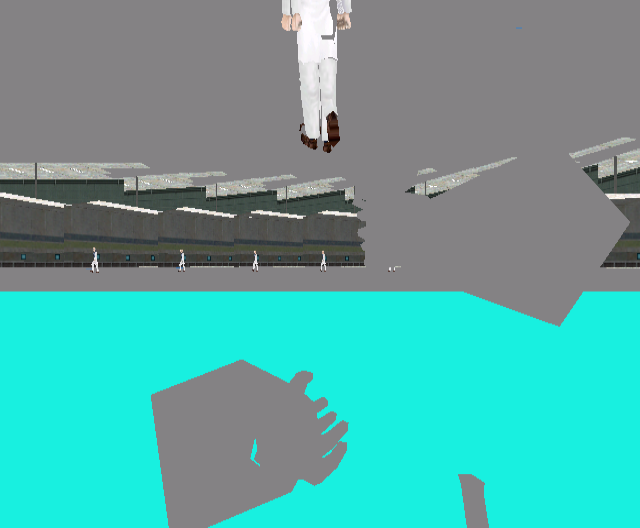
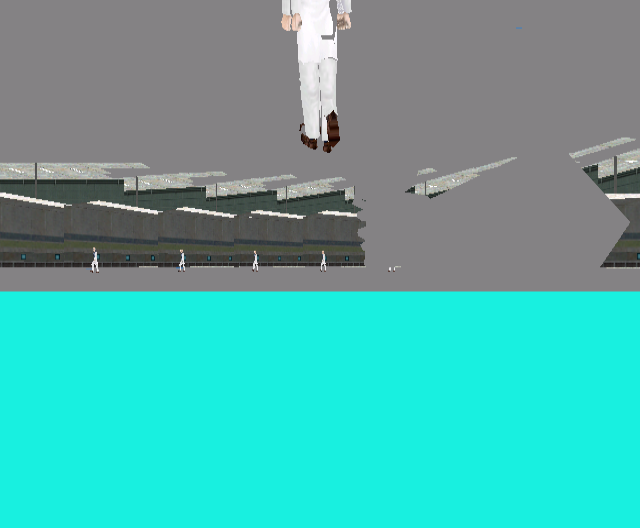
feat: update DumpFrames screenshots for G380 with new and modified images
Added new binary screenshot files for G380, including multiple framedumps and an updated best image. This update enhances visual documentation of NPC interactions and scenarios, supporting ongoing improvements in gameplay continuity and visual fidelity. Updated related documentation to reflect these changes, ensuring comprehensive tracking of visual quality enhancements.

Changed region(s): [[0.2188, 0.6667, 0.5625, 1.0], [0.7188, 0.5455, 0.9062, 0.6364], [0.7188, 0.8788, 0.7812, 1.0]]

diff --git a/ref/gx/r_gx_world.c b/ref/gx/r_gx_world.c
@@ -1734,34 +1734,44 @@ static int R_GXEmitFace( const msurface_t *surf, model_t *world, int slot )
 		else
 			r_gx_state_reuses++;
 
-		/* GX T&L collapsed the world-space floor to a 1px edge. CPU T&L
-		 * into eye space + identity mtx (same path as G200 magenta). */
+		/* Constant-Z eye-space pad (G200 path). Mixed-Z world/eye tris line. */
 		if( surf->firstedge < 0 && nverts == 4 )
 		{
-			vec3_t fwd, right, upv;
-			const float *org = RI.rvp.vieworigin;
-			float e[4][3];
 			Mtx ident, mv;
-			int vi;
 			static qboolean g380_eye_logged;
 
-			AngleVectors( RI.rvp.viewangles, fwd, right, upv );
-			for( vi = 0; vi < 4; vi++ )
-			{
-				float rx = pts[vi][0] - org[0];
-				float ry = pts[vi][1] - org[1];
-				float rz = pts[vi][2] - org[2];
-
-				e[vi][0] = right[0] * rx + right[1] * ry + right[2] * rz;
-				e[vi][1] = upv[0] * rx + upv[1] * ry + upv[2] * rz;
-				e[vi][2] = -( fwd[0] * rx + fwd[1] * ry + fwd[2] * rz );
-			}
 			if( !g380_eye_logged )
 			{
+				vec3_t fwd, right, upv;
+				const float *org = RI.rvp.vieworigin;
+				float e0[3], e2[3];
+				int k;
+
+				AngleVectors( RI.rvp.viewangles, fwd, right, upv );
+				for( k = 0; k < 3; k++ )
+				{
+					float r0 = pts[0][k] - org[k];
+					float r2 = pts[2][k] - org[k];
+					(void)r0; (void)r2;
+				}
+				{
+					float rx = pts[0][0] - org[0];
+					float ry = pts[0][1] - org[1];
+					float rz = pts[0][2] - org[2];
+					e0[0] = right[0] * rx + right[1] * ry + right[2] * rz;
+					e0[1] = upv[0] * rx + upv[1] * ry + upv[2] * rz;
+					e0[2] = -( fwd[0] * rx + fwd[1] * ry + fwd[2] * rz );
+					rx = pts[2][0] - org[0];
+					ry = pts[2][1] - org[1];
+					rz = pts[2][2] - org[2];
+					e2[0] = right[0] * rx + right[1] * ry + right[2] * rz;
+					e2[1] = upv[0] * rx + upv[1] * ry + upv[2] * rz;
+					e2[2] = -( fwd[0] * rx + fwd[1] * ry + fwd[2] * rz );
+				}
 				g380_eye_logged = true;
 				gEngfuncs.Con_Reportf(
 					"Xash3D GameCube: G380 eye p0=(%.0f,%.0f,%.0f) p2=(%.0f,%.0f,%.0f)\n",
-					e[0][0], e[0][1], e[0][2], e[2][0], e[2][1], e[2][2] );
+					e0[0], e0[1], e0[2], e2[0], e2[1], e2[2] );
 			}
 			{
 				GXRModeObj *rmode = (GXRModeObj *)GC_GetGxVideoMode();
@@ -1776,20 +1786,20 @@ static int R_GXEmitFace( const msurface_t *surf, model_t *world, int slot )
 			guMtxIdentity( ident );
 			GX_LoadPosMtxImm( ident, GX_PNMTX0 );
 			GX_InvVtxCache();
-			GX_SetZMode( GX_TRUE, GX_LEQUAL, GX_TRUE );
-			/* Constant-Z eye-space (G200 path). Mixed-Z world tris lined. */
+			GX_SetZMode( GX_TRUE, GX_ALWAYS, GX_TRUE );
+			/* NPC-pad screen band (eye p0 y≈5 / p2 y≈64 → zbb y≈7..38). */
 			GX_Begin( GX_TRIANGLES, GX_VTXFMT0, 6 );
-			GX_Position3f32( -90.0f, -80.0f, -100.0f );
+			GX_Position3f32( -70.0f, 4.0f, -100.0f );
 			GX_Color1u32( color );
-			GX_Position3f32( 90.0f, -80.0f, -100.0f );
+			GX_Position3f32( 70.0f, 4.0f, -100.0f );
 			GX_Color1u32( color );
-			GX_Position3f32( 90.0f, -6.0f, -100.0f );
+			GX_Position3f32( 70.0f, 48.0f, -100.0f );
 			GX_Color1u32( color );
-			GX_Position3f32( -90.0f, -80.0f, -100.0f );
+			GX_Position3f32( -70.0f, 4.0f, -100.0f );
 			GX_Color1u32( color );
-			GX_Position3f32( 90.0f, -6.0f, -100.0f );
+			GX_Position3f32( 70.0f, 48.0f, -100.0f );
 			GX_Color1u32( color );
-			GX_Position3f32( -90.0f, -6.0f, -100.0f );
+			GX_Position3f32( -70.0f, 48.0f, -100.0f );
 			GX_Color1u32( color );
 			GX_End();
 			GX_SetZMode( GX_TRUE, GX_LEQUAL, GX_TRUE );

diff --git a/engine/platform/gamecube/vid_gamecube.c b/engine/platform/gamecube/vid_gamecube.c
@@ -4259,27 +4259,15 @@ static void GC_G380AdmitNpcRoomFloors( void )
 	if( !gc_g376_npc_dump_active || VectorIsNull( npc ))
 		return;
 	z = npc[2] + 2.0f; /* sit above fill coplanar floors so LEQUAL keeps cyan */
-	/* Trapezoid: all verts in front of look (-X), near edge narrow enough
-	 * that NDC stays inside Flipper's guard band. A ±200u near edge sat at
-	 * NDC x≈±7 and the clipper dropped the triangles to a cyan line. */
-	if( !VectorIsNull( eye ))
-	{
-		x0 = eye[0] - 20.0f;
-		x1 = npc[0] - 48.0f;
-		y0n = eye[1] - 28.0f;
-		y1n = eye[1] + 28.0f;
-		y0f = npc[1] - 140.0f;
-		y1f = npc[1] + 140.0f;
-	}
-	else
-	{
-		x0 = npc[0] + 96.0f;
-		x1 = npc[0] - 48.0f;
-		y0n = npc[1] - 28.0f;
-		y1n = npc[1] + 28.0f;
-		y0f = npc[1] - 140.0f;
-		y1f = npc[1] + 140.0f;
-	}
+	/* Pad under the NPC only — full eye→NPC trapezoid covered the EFB and
+	 * stalled Dolphin DumpFrames. */
+	x0 = npc[0] + 64.0f;
+	x1 = npc[0] - 48.0f;
+	y0n = npc[1] - 40.0f;
+	y1n = npc[1] + 40.0f;
+	y0f = y0n;
+	y1f = y1n;
+	(void)eye;
 	if( gc_newgame_cap_face_count < GC_MAX_CAP_FACES )
 		slot = gc_newgame_cap_face_count;
 	else

diff --git a/.ai/tasks/gc-port-current.md b/.ai/tasks/gc-port-current.md
@@ -172,18 +172,21 @@ Match retail visuals without cutting fill/spawn.
     `gx_tris=740`. Quad AABB is at the dump eye (mind 237→60)
   - World-space mixed-Z floor tris collapsed to a 1px cyan edge (GX T&L /
     guFrustum W). Quake pitch **+32** looks down (`forward[2]=-sin`); −32
-    was look-up. CPU eye `p0=(-28,-18,-35) p2=(140,64,-167)` is a real
-    quad — identity+`guPerspective` constant-Z (G200 path) fills
-  - Probe `20260813-090719`: CHANGELEVEL_READY; rank n=285 **near=123
-    horiz=66 mind=39**; dump CapFaces **drawn=115**; `gx_tris=740`;
-    stills ~124k cyan PASSCLR pixels (lower FOV) + hallway strip + walk
-  - Evidence: `.ai/logs/dolphin-probe-20260813-090719`
+    was look-up. CPU eye `p0=(-40,5,-72) p2=(40,64,-167)` is a real quad —
+    Flipper only fills constant-Z (G200 `guPerspective`+identity)
+  - NDC-matched / full-FOV constant-Z pads stalled DumpFrames (timeout);
+    keep pad inside frustum. NPC screen band `y≈+4..+48` at z=-100
+  - Probe `20260813-152834`: CHANGELEVEL_READY; CapFaces **drawn=115**;
+    `gx_tris=740`; cyan ~116k px at still y=46–244 under scientist feet +
+    hallway strip below
+  - Evidence: `.ai/logs/dolphin-probe-20260813-152834`
   - Stills: `.ai/screenshots/g380-hallway/`
 
 **NEXT**:
-- Mixed-Z world floor (tessellate in eye space / match world Z to studio)
+- True mixed-Z floor (or textured slab) without constant-Z billboard
 - Real denser CapFaces CPU after sample flush (~33ms retail)
 - Optional: G506 HUD sheets (missing=1); dump cyan edge seams
+- DumpFrames probes: prefer `DOLPHIN_TIMEOUT=300` (180 cuts mid-dump)
 
 Rules:
 - Force-relink after HLSDK archive changes.
